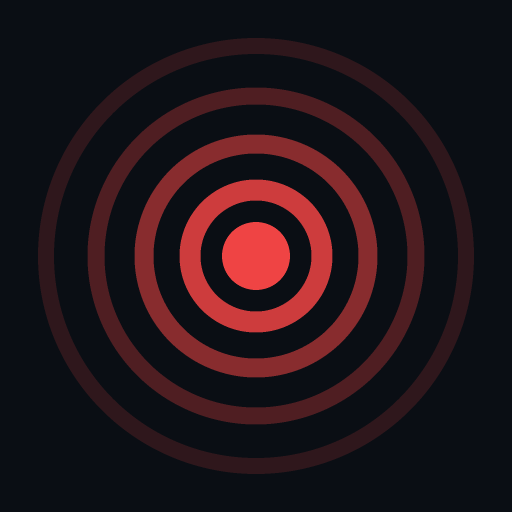
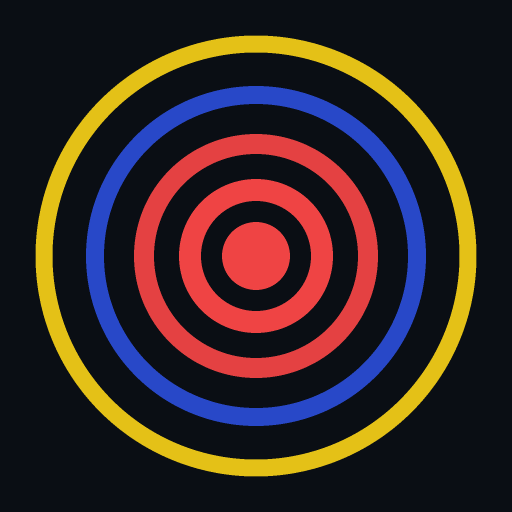
Funciones: enlace a ficha oficial (validado), buscadores voluntarios, bandera VE
Personas desaparecidas:
- Campo opcional para enlazar la ficha en desaparecidosterremotovenezuela.com.
- Seguridad estricta (safeProfileLink): SOLO ese dominio, HTTPS, sin
  usuario/contraseña ni puerto raro; bloquea javascript:, data:, otros dominios
  y trucos "usuario@host". Se valida al guardar y se re-valida al renderizar
  (defensa en profundidad). El enlace se muestra como botón "Ver ficha oficial".

Buscadores voluntarios:
- Nuevo tipo de reporte y pestaña "Buscadores": personas que se ofrecen a
  recorrer/verificar su zona por un familiar de alguien, con su contacto.
- Búsqueda por zona y nota guía. Sin botón de confirmación para este tipo.

Identidad / Venezuela:
- Bandera en el encabezado (SVG con las 8 estrellas) + franja tricolor superior.
- Favicon e iconos PWA rediseñados: epicentro sísmico en amarillo/azul/rojo.

Teléfonos (del pie de desaparecidosterremotovenezuela.com):
- Líneas por operadora de Caracas (171, *1, 112, 911) y ambulancias
  (Aeroambulancias, Rescarven, Ambulancia Metropolitano).

README actualizado.

Claude-Session: https://claude.ai/code/session_01Fu7b1znRD2fGHoB6oRZ3dm

Changed region(s): [[0.0625, 0.0625, 0.9375, 0.9375], [0.25, 0.25, 0.75, 0.75], [0.1562, 0.1562, 0.8438, 0.8438]]

diff --git a/index.html b/index.html
@@ -210,15 +210,44 @@
     .fab{ bottom:calc(20px + env(safe-area-inset-bottom)); }
     main{ padding-bottom:calc(90px + env(safe-area-inset-bottom)); }
   }
+
+  /* ===== Bandera de Venezuela ===== */
+  .flag-accent{ height:4px; width:100%; background:linear-gradient(to right,#f7d117 0 33.34%,#00247d 33.34% 66.67%,#cf142b 66.67% 100%); }
+  .ve-flag{ width:30px; height:20px; border-radius:3px; flex:none; box-shadow:0 0 0 1px rgba(255,255,255,.12); }
+  .ve-flag-wrap{ display:flex; flex-direction:column; align-items:center; gap:2px; margin-left:auto; }
+  .ve-flag-wrap small{ font-size:8.5px; font-weight:700; letter-spacing:.4px; color:var(--muted); text-transform:uppercase; }
+
+  /* Tarjeta de buscador voluntario y enlace a ficha oficial */
+  .sbtn.ficha{ color:#fbbf24; border-color:#fbbf2433; background:#fbbf2412; }
+  .tel-sub{ font-size:11px; font-weight:700; color:var(--muted); text-transform:uppercase; letter-spacing:.5px; margin:18px 0 9px; }
+  .tel-ambu{ background:var(--panel); border:1px solid var(--line); border-radius:12px; padding:13px 14px; margin-bottom:10px; }
+  .tel-ambu .pl{ font-size:14px; font-weight:700; }
+  .tel-ambu .nums{ font-size:12.5px; color:var(--muted); margin-top:5px; line-height:1.7; font-variant-numeric:tabular-nums; }
+  .tel-ambu .nums a{ color:var(--txt); text-decoration:none; border-bottom:1px dotted var(--line); }
 </style>
 </head>
 <body>
+<div class="flag-accent" aria-hidden="true"></div>
 <header>
   <div class="htop">
     <span class="pulse" id="pulse" aria-hidden="true"></span>
     <div>
       <h1>Emergencia Sísmica · Venezuela</h1>
       <div class="hsub" id="clock" aria-live="polite">Estado de Emergencia Nacional · 25 jun 2026</div>
+    </div>
+    <div class="ve-flag-wrap">
+      <svg class="ve-flag" viewBox="0 0 30 20" role="img" aria-label="Bandera de Venezuela">
+        <rect width="30" height="20" rx="3" fill="#00247d"/>
+        <rect width="30" height="6.667" fill="#f7d117"/>
+        <rect width="30" height="6.667" y="13.333" fill="#cf142b"/>
+        <g fill="#fff">
+          <circle cx="5.5" cy="8.60" r="0.6"/><circle cx="8.2" cy="9.48" r="0.6"/>
+          <circle cx="10.9" cy="10.06" r="0.6"/><circle cx="13.6" cy="10.36" r="0.6"/>
+          <circle cx="16.4" cy="10.36" r="0.6"/><circle cx="19.1" cy="10.06" r="0.6"/>
+          <circle cx="21.8" cy="9.48" r="0.6"/><circle cx="24.5" cy="8.60" r="0.6"/>
+        </g>
+      </svg>
+      <small>Venezuela</small>
     </div>
   </div>
 </header>
@@ -241,6 +270,7 @@
   <button class="tab" role="tab" aria-selected="false" data-v="desap">🧍 Desaparecidos</button>
   <button class="tab" role="tab" aria-selected="false" data-v="hosp">🏥 Hospitales</button>
   <button class="tab" role="tab" aria-selected="false" data-v="acopio">📦 Acopio y ayuda</button>
+  <button class="tab" role="tab" aria-selected="false" data-v="volun">🙋 Buscadores</button>
   <button class="tab" role="tab" aria-selected="false" data-v="tel">📞 Teléfonos</button>
 </nav>
 
@@ -267,6 +297,7 @@
           <span class="lg"><span class="dot" style="background:var(--aid)"></span>Ayuda humanitaria</span>
           <span class="lg"><span class="dot" style="background:var(--dark)"></span>Zona sin luz</span>
           <span class="lg"><span class="dot" style="background:var(--water)"></span>Sin agua potable</span>
+          <span class="lg"><span class="dot" style="background:#0ea5e9"></span>Buscador voluntario</span>
         </div>
         <div class="note">🔋 <b>Modo bajo consumo por defecto.</b> El mapa abre sin descargar calles (tema oscuro, marcadores y límites). Toca <b>🛣️ Calles</b> para ver calles y carreteras reales cuando lo necesites; vuelve a tocarlo para ahorrar datos. Sin actualización automática: usa 🔄 para ver reportes nuevos.</div>
       </div>
@@ -315,6 +346,16 @@
     <div id="list-acopio" class="list-grid"></div>
   </section>
 
+  <section class="view" id="v-volun">
+    <div class="sectitle">Buscadores voluntarios</div>
+    <div class="searchbar">
+      <input id="volunSearch" placeholder="Buscar por zona o estado…" aria-label="Buscar buscadores voluntarios por zona o estado">
+      <button class="sclear" id="volunClear">Limpiar</button>
+    </div>
+    <div id="list-volun" class="list-grid"></div>
+    <div class="note">🙋 ¿Puedes recorrer tu zona o acercarte a verificar por un familiar de alguien? Ofrécete como <b>buscador voluntario</b> con el botón <b>＋ Reportar</b> → <b>Buscador voluntario</b>. Indica la zona que puedes cubrir y cómo contactarte. <b>No compartas datos sensibles</b> y actúa siempre de buena fe.</div>
+  </section>
+
   <section class="view" id="v-tel">
     <div class="sectitle">Teléfonos de emergencia oficiales</div>
     <div class="list-grid">
@@ -324,7 +365,23 @@
       <a class="phone" href="tel:[phone redacted]"><div><div class="pl">Cruz Roja Venezolana</div><div class="ps">Atención médica / ambulancias</div></div><div class="pn">[phone redacted]</div></a>
       <a class="phone" href="tel:0212"><div><div class="pl">FUNVISIS — Reporte sísmico</div><div class="ps">Información de sismos y réplicas</div></div><div class="pn">0212</div></a>
     </div>
-    <div class="note">📌 Verifica los números regionales con tu alcaldía. El 171 es la línea integrada nacional de emergencias. Esta app coordina reportes ciudadanos y <b>no reemplaza</b> a las autoridades.</div>
+
+    <div class="tel-sub">📡 Líneas de emergencia por operadora · Caracas</div>
+    <div class="list-grid">
+      <a class="phone" href="tel:171"><div><div class="pl">CANTV (teléfono fijo)</div><div class="ps">Emergencias</div></div><div class="pn">171</div></a>
+      <a class="phone" href="tel:*1"><div><div class="pl">Movilnet</div><div class="ps">Emergencias</div></div><div class="pn">*1</div></a>
+      <a class="phone" href="tel:112"><div><div class="pl">Digitel</div><div class="ps">Emergencias</div></div><div class="pn">112</div></a>
+      <a class="phone" href="tel:911"><div><div class="pl">Movistar</div><div class="ps">Emergencias</div></div><div class="pn">911</div></a>
+    </div>
+
+    <div class="tel-sub">🚑 Ambulancias · Caracas</div>
+    <div class="list-grid">
+      <div class="tel-ambu"><div class="pl">Aeroambulancias</div><div class="nums"><a href="tel:[phone redacted]">(0212) [phone redacted]</a> · <a href="tel:[phone redacted]">[phone redacted]</a> · <a href="tel:[phone redacted]">[phone redacted]</a> · <a href="tel:[phone redacted]">[phone redacted]</a></div></div>
+      <div class="tel-ambu"><div class="pl">Rescarven</div><div class="nums"><a href="tel:[phone redacted]">(0212) [phone redacted]</a> · <a href="tel:[phone redacted]">[phone redacted]</a> · <a href="tel:[phone redacted]">[phone redacted]</a> · <a href="tel:[phone redacted]">[phone redacted]</a></div></div>
+      <div class="tel-ambu"><div class="pl">Ambulancia Metropolitano</div><div class="nums"><a href="tel:[phone redacted]">(0212) [phone redacted]</a> · <a href="tel:[phone redacted]">[phone redacted]</a> · <a href="tel:[phone redacted]">[phone redacted]</a></div></div>
+    </div>
+
+    <div class="note">📌 El <b>171</b> es la línea integrada nacional. Las líneas por operadora y las ambulancias son referenciales para Caracas: <b>verifica</b> los números regionales con tu alcaldía. Esta app coordina reportes ciudadanos y <b>no reemplaza</b> a las autoridades.</div>
   </section>
 </main>
 
@@ -360,6 +417,7 @@ const TYPES = {
   aid:    {e:'⛑️', t:'Punto de ayuda humanitaria', c:'#ec4899'},
   dark:   {e:'🔌', t:'Zona sin luz', c:'#64748b'},
   water:  {e:'💧', t:'Sin agua potable', c:'#06b6d4'},
+  volunteer:{e:'🙋', t:'Buscador voluntario', c:'#0ea5e9'},
   safe:   {e:'✅', t:'Localizado a salvo', c:'#10b981'},
 };
 // Estados de paso para vialidad
@@ -384,8 +442,9 @@ const SEED = [
   {id:'r5', type:'water', title:'Falla crítica de agua', loc:'Sector residencial, Miranda', lon:-66.55, lat:10.40, need:'Cisternas de agua potable', when:'hace 4 h'},
   {id:'r6', type:'dark', title:'Sector sin electricidad', loc:'Catia, Caracas', lon:-66.95, lat:10.50, need:'Iluminación / plantas', when:'hace 3 h'},
   {id:'r7', type:'acopio', title:'Centro de acopio activo', loc:'Plaza Altamira, Chacao', lon:-66.85, lat:10.49, need:'Reciben agua, medicinas, alimentos', when:'hace 1 h'},
-  {id:'r8', type:'miss', title:'Familia Barone', loc:'Caraballeda, La Guaira', lon:-66.85, lat:10.61, need:'Contacto: [phone redacted]', when:'hace 5 h'},
+  {id:'r8', type:'miss', title:'Familia Barone', loc:'Caraballeda, La Guaira', lon:-66.85, lat:10.61, need:'Contacto: [phone redacted]\nhttps://desaparecidosterremotovenezuela.com/?persona=p90ce309b8962', when:'hace 5 h'},
   {id:'r9', type:'miss', title:'Familia Caicedo', loc:'Macuto, La Guaira', lon:-66.90, lat:10.60, need:'Esposa Lucena y bebé Luciano', when:'hace 4 h'},
+  {id:'r14', type:'volunteer', title:'Buscador voluntario', loc:'Chacao y este de Caracas', lon:-66.85, lat:10.50, need:'Puedo recorrer mi sector y verificar direcciones. Contacto: [phone redacted] (WhatsApp)', when:'hace 1 h'},
   {id:'r10', type:'water', title:'Sin suministro de agua', loc:'Maracay, Aragua', lon:-67.60, lat:10.25, need:'Agua potable / cisternas', when:'hace 3 h'},
   {id:'r11', type:'build', title:'Daños en edificaciones', loc:'Valencia, Carabobo', lon:-68.00, lat:10.18, need:'Evaluación estructural', when:'hace 5 h'},
   {id:'r12', type:'hosp', title:'Hombre adulto, ~40 años', loc:'Hospital Vargas de Caracas, San José', lon:-66.91, lat:10.50, need:'Estable, sin identificación. Tatuaje en antebrazo derecho', when:'hace 2 h'},
@@ -431,7 +490,7 @@ let GEO=null, VB={w:600,h:420}, BOUNDS=null;
 let reports=[], selState=null, selMuni=null;
 let zoom=1, panX=0, panY=0;
 let activeFilters=new Set(Object.keys(TYPES).filter(k=>k!=='safe'));
-let missQuery='', hospQuery='';
+let missQuery='', hospQuery='', volunQuery='';
 
 // ---- Municipios (capa que aparece al enfocar un estado) ----
 let MUNIS=null;              // { estado: [ [nombre, tipo, coords], ... ] }
@@ -458,6 +517,35 @@ function esc(s){
   return String(s==null?'':s)
     .replace(/&/g,'&amp;').replace(/</g,'&lt;').replace(/>/g,'&gt;')
     .replace(/"/g,'&quot;').replace(/'/g,'&#39;');
+}
+
+// ---- Enlace a la ficha oficial de desaparecidosterremotovenezuela.com ----
+// Seguridad: SOLO se acepta ese dominio, por HTTPS, sin usuario/contraseña ni
+// puerto raro. Bloquea javascript:, data:, otros dominios y trucos tipo
+// "https://[email redacted]". Se valida al guardar Y al renderizar.
+const PROFILE_HOSTS = ['desaparecidosterremotovenezuela.com','www.desaparecidosterremotovenezuela.com'];
+function safeProfileLink(raw){
+  if(!raw) return null;
+  let s=String(raw).trim();
+  if(!s || s.length>300) return null;
+  let u;
+  try{ u=new URL(s); }catch(e){ return null; }
+  if(u.protocol!=='https:') return null;
+  if(u.username || u.password) return null;
+  if(u.port && u.port!=='443') return null;
+  if(!PROFILE_HOSTS.includes(u.hostname.toLowerCase())) return null;
+  return u.href; // URL normalizada y segura
+}
+// Extrae (si existe) un enlace válido a la ficha dentro del texto del reporte
+const PROFILE_RE = /https?:\/\/[^\s"'<>]*desaparecidosterremotovenezuela\.com[^\s"'<>]*/i;
+function extractProfile(rp){
+  const hay=`${rp&&rp.need||''} ${rp&&rp.loc||''}`;
+  const m=hay.match(PROFILE_RE);
+  if(!m) return null;
+  return safeProfileLink(m[0]); // re-validación estricta (defensa en profundidad)
+}
+function stripProfile(text){
+  return String(text==null?'':text).replace(PROFILE_RE,'').replace(/\s{2,}/g,' ').replace(/\s*[\n·|]\s*$/,'').trim();
 }
 
 function shareLinks(rp){
@@ -758,23 +846,29 @@ function card(rp){
   const mine=confirmedByMe.has(String(rp.id));
   // Etiqueta según el tipo: desaparecidos -> "encontrado"; resto -> "confirmar"
   const verbo = rp.type==='miss' ? 'Confirmar encontrado' : 'Confirmar';
-  // Botón de confirmación: requiere CONFIRM_THRESHOLD confirmaciones distintas
-  const confBtn = mine
+  // Botón de confirmación (no aplica a buscadores voluntarios)
+  const confBtn = rp.type==='volunteer' ? '' : (mine
     ? `<button class="btn-done sbtn" disabled style="color:var(--muted);opacity:.7">✓ Confirmaste (${c}/${CONFIRM_THRESHOLD})</button>`
-    : `<button class="btn-done sbtn" data-done="${esc(rp.id)}" style="color:var(--safe)">✓ ${verbo} (${c}/${CONFIRM_THRESHOLD})</button>`;
+    : `<button class="btn-done sbtn" data-done="${esc(rp.id)}" style="color:var(--safe)">✓ ${verbo} (${c}/${CONFIRM_THRESHOLD})</button>`);
   const pl=precLabel(rp.precision);
   const precBadge=`<span class="precbadge ${pl.exact?'pexact':'papprox'}">${pl.exact?'✓ exacta':'≈ aprox.'}</span>`;
+  // Ficha oficial (solo enlaces validados de desaparecidosterremotovenezuela.com)
+  const prof=extractProfile(rp);
+  const fichaBtn = prof ? `<a class="sbtn ficha" href="${esc(prof)}" target="_blank" rel="noopener noreferrer">🔗 Ver ficha oficial ↗</a>` : '';
+  const dispLoc = esc(stripProfile(rp.loc));
+  const dispNeed = esc(stripProfile(rp.need)) || '(sin detalle)';
   return `<div class="card"><div class="crow">
     <div class="cicon" style="background:${t.c}22">${t.e}</div>
     <div style="flex:1">
       <div class="ctitle">${esc(rp.title)}</div>
-      <div class="cmeta">📍 ${esc(rp.loc)}<br>ℹ️ ${esc(rp.need)}</div>
+      <div class="cmeta">📍 ${dispLoc}<br>ℹ️ ${dispNeed}</div>
       <span class="ctag" style="background:${t.c}22;color:${t.c}">${t.t}</span>
       ${precBadge}
       <span style="font-size:10.5px;color:var(--muted);margin-left:6px">${esc(rp.when)}</span>
       <div class="share-row">
         <a class="sbtn wa" href="${sh.wa}" target="_blank" rel="noopener">↗ WhatsApp</a>
         <button class="sbtn" data-copy="${esc(rp.id)}">⧉ Copiar</button>
+        ${fichaBtn}
         ${confBtn}
       </div>
     </div></div></div>`;
@@ -783,7 +877,7 @@ function card(rp){
 const TYPE_SHORT = {
   crit:'Críticas', build:'Edif. dañados', road:'Vialidad', miss:'Desaparecidos',
   hosp:'En hospital', acopio:'Acopio', aid:'Ayuda human.', dark:'Sin luz',
-  water:'Sin agua', safe:'A salvo'
+  water:'Sin agua', volunteer:'Voluntarios', safe:'A salvo'
 };
 // Gráfica de barras (SVG/CSS puro, sin dependencias) con las estadísticas de los reportes
 function renderChart(){
@@ -838,7 +932,7 @@ function render(){
   document.getElementById('s-build').textContent=reports.filter(r=>['build','dark','water'].includes(r.type)).length;
   document.getElementById('s-miss').textContent=reports.filter(r=>r.type==='miss').length;
   renderChart();
-  const all=reports.filter(r=>!['miss','acopio','hosp','aid'].includes(r.type));
+  const all=reports.filter(r=>!['miss','acopio','hosp','aid','volunteer'].includes(r.type));
   document.getElementById('list-rep').innerHTML=all.length?all.map(card).join(''):'<div class="empty">Sin reportes activos.</div>';
   let miss=reports.filter(r=>r.type==='miss');
   if(missQuery){ const q=missQuery.toLowerCase(); miss=miss.filter(r=>(r.title+' '+r.loc+' '+r.need).toLowerCase().includes(q)); }
@@ -848,6 +942,9 @@ function render(){
   document.getElementById('list-hosp').innerHTML=hosp.length?hosp.map(card).join(''):'<div class="empty">'+(hospQuery?'Sin coincidencias para “'+esc(hospQuery)+'”.':'Aún no hay personas reportadas en centros de salud.')+'</div>';
   const aco=reports.filter(r=>r.type==='acopio'||r.type==='aid');
   document.getElementById('list-acopio').innerHTML=aco.length?aco.map(card).join(''):'<div class="empty">No hay centros de acopio ni puntos de ayuda reportados.</div>';
+  let volun=reports.filter(r=>r.type==='volunteer');
+  if(volunQuery){ const q=volunQuery.toLowerCase(); volun=volun.filter(r=>(r.title+' '+r.loc+' '+r.need).toLowerCase().includes(q)); }
+  document.getElementById('list-volun').innerHTML=volun.length?volun.map(card).join(''):'<div class="empty">'+(volunQuery?'Sin coincidencias para “'+esc(volunQuery)+'”.':'Aún no hay buscadores voluntarios. ¡Ofrécete con ＋ Reportar!')+'</div>';
   document.querySelectorAll('[data-done]').forEach(b=>{ b.addEventListener('click',async()=>{
     const id=b.dataset.done;
     if(confirmedByMe.has(String(id))) return;            // ya confirmado por este navegador
@@ -880,6 +977,9 @@ document.getElementById('missClear').addEventListener('click',()=>{ missQuery=''
 const hs=document.getElementById('hospSearch');
 if(hs){ hs.addEventListener('input',e=>{ hospQuery=e.target.value.trim(); render(); }); }
 document.getElementById('hospClear').addEventListener('click',()=>{ hospQuery=''; hs.value=''; render(); });
+const vs=document.getElementById('volunSearch');
+if(vs){ vs.addEventListener('input',e=>{ volunQuery=e.target.value.trim(); render(); }); }
+const vc=document.getElementById('volunClear'); if(vc){ vc.addEventListener('click',()=>{ volunQuery=''; vs.value=''; render(); }); }
 
 document.querySelectorAll('.tab').forEach(t=>{
   t.addEventListener('click',()=>{
@@ -899,20 +999,31 @@ function buildSheet(){
   tg.querySelectorAll('.tcard').forEach(c=>c.addEventListener('click',()=>{ selType=c.dataset.t; buildSheet(); }));
   const states = GEO?GEO.features.filter(f=>f.properties.NAME_1).map(f=>f.properties.NAME_1):HOT;
   const isPerson = (selType==='miss'||selType==='hosp');
+  const isVolun = (selType==='volunteer');
   const pl=precLabel(pickedSrc);
   const locStatus = pickedLat!=null
     ? `<div class="loc-ok">${pl.exact?'✓':'≈'} ${pl.t}<br><span style="color:var(--muted)">lat ${pickedLat.toFixed(5)}, lon ${pickedLon.toFixed(5)}</span> · <button type="button" class="loc-clear" id="locClear">quitar</button></div>`
     : `<div class="loc-warn">Sin ubicación precisa. Si no marcas una, el reporte se ubicará de forma <b>aproximada</b> al centro del estado.</div>`;
   const isOffer = (selType==='aid'||selType==='acopio');
-  const needLabel = isPerson ? 'Nombre y descripción de la persona' : (isOffer ? 'Qué se ofrece / horario' : 'Qué se necesita / detalle');
-  const needPh = isPerson ? 'Nombre o descripción, edad aprox., estado, señas particulares'
+  const locLabel = selType==='hosp' ? 'Hospital o centro de salud' : (isVolun ? 'Zona que puedes cubrir' : 'Ubicación / dirección');
+  const locPh = selType==='hosp' ? 'Ej.: Hospital Vargas, San José, Caracas' : (isVolun ? 'Ej.: Municipio Chacao y este de Caracas' : 'Ej.: Av. Francisco de Miranda, Chacao');
+  const needLabel = isVolun ? 'Cómo puedes ayudar y cómo contactarte'
+    : (isPerson ? 'Nombre y descripción de la persona' : (isOffer ? 'Qué se ofrece / horario' : 'Qué se necesita / detalle'));
+  const needPh = isVolun ? 'Ej.: puedo recorrer mi sector y verificar direcciones. Contacto: +58 4xx-xxxxxxx (WhatsApp).'
+    : (isPerson ? 'Nombre o descripción, edad aprox., estado, señas particulares'
     : (isOffer ? (selType==='aid' ? 'Ej.: agua, comida, atención médica, refugio. Horario y a quién atiende.' : 'Ej.: reciben agua, medicinas, alimentos. Horario de recepción.')
-                : 'Ej.: paramédicos, agua, maquinaria, cisterna...');
+                : 'Ej.: paramédicos, agua, maquinaria, cisterna...'));
+  // Campo opcional de ficha oficial (solo para personas: desaparecidos / hospital)
+  const fichaField = isPerson ? `
+    <label class="fl">Ficha en desaparecidosterremotovenezuela.com <span style="font-weight:400;color:var(--muted)">(opcional)</span></label>
+    <input id="f-link" type="url" inputmode="url" placeholder="https://desaparecidosterremotovenezuela.com/?persona=...">
+    <div style="font-size:11px;color:var(--muted);margin-top:4px">🔒 Solo se aceptan enlaces de <b>desaparecidosterremotovenezuela.com</b> (por seguridad).</div>` : '';
   document.getElementById('formfields').innerHTML=`
-    <label class="fl">${selType==='hosp'?'Hospital o centro de salud':'Ubicación / dirección'}</label>
-    <input id="f-loc" placeholder="${selType==='hosp'?'Ej.: Hospital Vargas, San José, Caracas':'Ej.: Av. Francisco de Miranda, Chacao'}">
+    <label class="fl">${locLabel}</label>
+    <input id="f-loc" placeholder="${locPh}">
     <label class="fl">${needLabel}</label>
     <textarea id="f-need" placeholder="${needPh}"></textarea>
+    ${fichaField}
     <label class="fl">Ubicación en el mapa <span style="font-weight:400;color:var(--muted)">(recomendado para rescate)</span></label>
     <div class="loc-btns">
       <button type="button" class="loc-btn" id="gpsBtn">📍 Usar mi ubicación (GPS)</button>
@@ -967,13 +1078,22 @@ document.getElementById('submitRep').addEventListener('click',async()=>{
   const muniEl=document.getElementById('f-muni');
   const muni=muniEl?muniEl.value.trim():'';
   if(!loc0){ alert('Indica la ubicación.'); return; }
+  // Enlace a la ficha oficial (opcional, solo personas): validación estricta de dominio
+  const linkEl=document.getElementById('f-link');
+  let profileUrl=null;
+  if(linkEl && linkEl.value.trim()){
+    profileUrl=safeProfileLink(linkEl.value);
+    if(!profileUrl){ alert('El enlace debe ser de https://desaparecidosterremotovenezuela.com'); return; }
+  }
+  // Componer la descripción adjuntando el enlace validado (sin alterar el esquema de la BD)
+  const needFinal = (need||'(sin detalle)') + (profileUrl ? `\n${profileUrl}` : '');
   // Componer ubicación con municipio si se eligió
   const loc = muni ? `${loc0} — ${muni}, ${st}` : loc0;
   // Coordenadas: usar punto preciso (GPS o marcado) si existe; si no, centro del estado (aprox)
   let lon, lat, precision;
   if(pickedLat!=null){ lat=pickedLat; lon=pickedLon; precision=pickedSrc; }
   else { const [clon,clat]=stateCentroidLonLat(st); const jit=()=>(Math.random()-.5)*0.25; lon=clon+jit(); lat=clat+jit(); precision='approx'; }
-  const rep={ type:selType, title:TYPES[selType].t, loc, need:need||'(sin detalle)', lon, lat, precision };
+  const rep={ type:selType, title:TYPES[selType].t, loc, need:needFinal, lon, lat, precision };
   const btn=document.getElementById('submitRep');
   btn.textContent='Publicando…'; btn.disabled=true;
   if(cloudOK){

diff --git a/README.md b/README.md
@@ -19,9 +19,14 @@ puntos de ayuda humanitaria, todo sobre un mapa interactivo.
 - **📋 Reportes por tipo**: emergencias críticas, daños en edificios, estado de
   vías, zonas sin luz/agua, desaparecidos, personas en centros de salud, acopio
   y ayuda humanitaria.
-- **🧍 Búsqueda de personas** desaparecidas y localizadas en hospitales.
+- **🧍 Búsqueda de personas** desaparecidas y localizadas en hospitales, con
+  posibilidad de enlazar la **ficha oficial** en `desaparecidosterremotovenezuela.com`.
+  Por seguridad **solo se aceptan enlaces de ese dominio** (HTTPS, sin trucos de
+  `usuario@host`, `javascript:`, etc.), validados al guardar y al mostrar.
+- **🙋 Buscadores voluntarios**: sección para que las personas se ofrezcan a
+  recorrer o verificar su zona por un familiar de alguien, indicando su contacto.
 - **📞 Teléfonos oficiales** de emergencia (171, Bomberos, Protección Civil,
-  Cruz Roja, FUNVISIS).
+  Cruz Roja, FUNVISIS) y líneas por operadora / ambulancias en Caracas.
 - **➕ Reporte ciudadano** con ubicación por **GPS** o marcando un punto en el
   mapa, y precisión indicada (exacta / aproximada).
 - **✅ Confirmación múltiple**: un reporte se retira al ser confirmado por varias